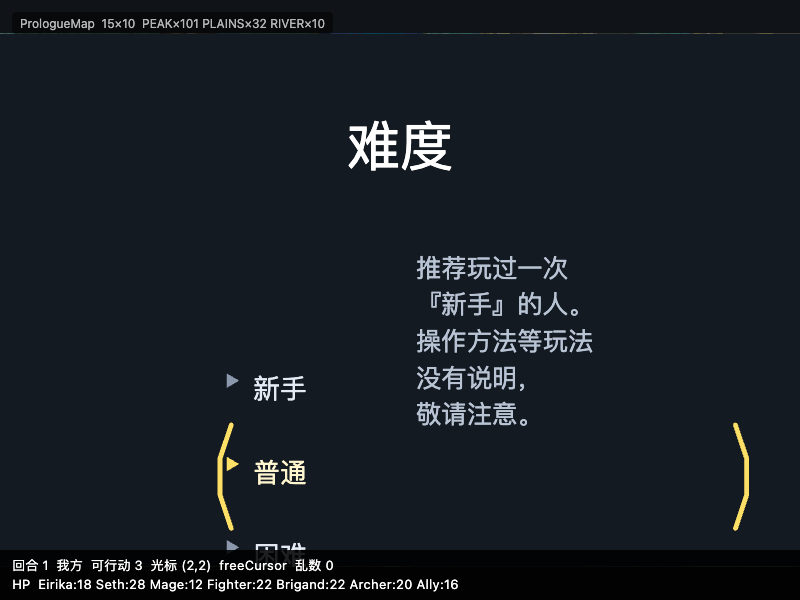
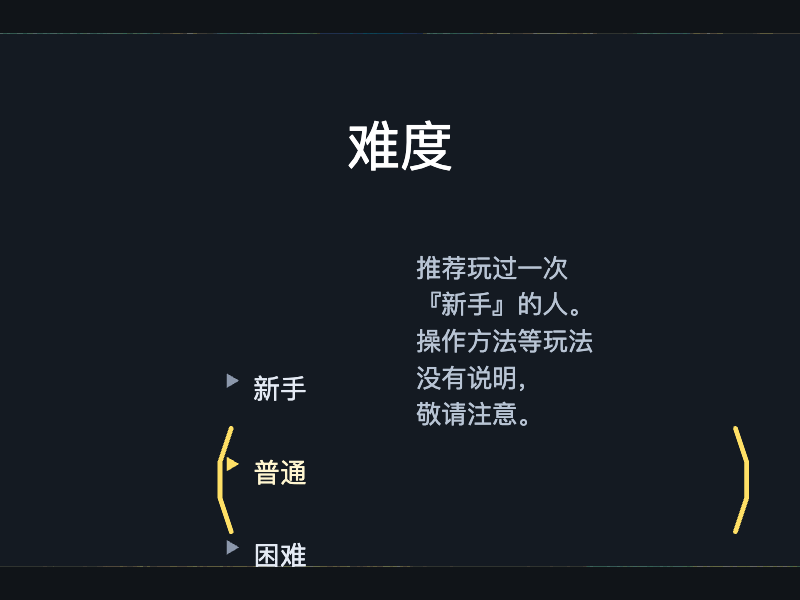
收掉调试 HUD：默认隐藏，FE8R_DEBUG=1 才显示
用户要求「把第一章和前面的都做好」。调试信息不该出现在玩家画面上。

## 之前的状态

画面上一直有两块**开发用的**覆盖层：

* 左上角：版本号 + 加载状态（`剧本加载失败: ...` 这类也在这里）
* 底部：`回合 1 我方 可行动 3 光标 (2,2) freeCursor 乱数 0` /
  `HP Eirika:18 Seth:28 ...` / `剧情 第1句 文本=0x8c3 未执行ENUN/MUSC...`

后者尤其刺眼：**玩家每时每刻都看到"未执行 ENUN""缺单位表"** ——
那是给我看的，不是给玩家看的。

## 改法：不是删掉，而是**默认隐藏**

删掉会失去开发价值（截图验证要靠 HUD 上的"缺表""未执行指令"）。
所以加一个开关：

```dart
/// 左上角状态条与底部 HUD 都是开发用的 —— 玩家不该看到。
/// `FE8R_DEBUG=1` 打开；不设就是干净画面。
final bool _debugOverlay = (Platform.environment['FE8R_DEBUG'] ?? '') == '1';
```

`main.dart` 里两块覆盖层包进 `if (_debugOverlay) ...[ ... ]`。
`tools/verify/shot.sh` 自动带上 `FE8R_DEBUG=1` —— 视觉验证照旧看得到那些信息。

## 效果

![干净画面](docs/images/zh-difficulty.png)

难度画面：标题「难度」、菜单「新手/普通/困难」、右侧中文说明，
**没有任何调试信息**。

ci.sh 31 项全绿；204 条测试全过。

diff --git a/lib/main.dart b/lib/main.dart
@@ -1,3 +1,4 @@
+import 'dart:io';
 // FE8 重制版 —— 程序入口
 //
 // 层次（技术方案 §4.2，由 tools/verify/check_architecture.dart 强制）：
@@ -12,6 +13,18 @@ import 'package:fe8r/game/fe8_game.dart';
 import 'package:fe8r/ui/debug_screenshot.dart';
 import 'package:flame/game.dart';
 import 'package:flutter/material.dart';
+
+/// ★ **调试覆盖层开关。**
+///
+/// 左上角状态条（版本 / 加载状态）与底部 HUD（回合 / 阵营 / 光标 / 缺表提示）
+/// 都是**开发用的** —— 玩家不该看到。
+///
+/// `FE8R_DEBUG=1` 打开；不设就是干净画面。
+///
+/// ⚠ 截图脚本（`tools/verify/shot.sh`）会带上它 —— 
+/// 视觉验证需要 HUD 上的"缺表""未执行指令"这类信息。
+final bool _debugOverlay =
+    (Platform.environment['FE8R_DEBUG'] ?? '') == '1';
 
 void main() {
   runApp(
@@ -76,11 +89,19 @@ class _GameShellState extends State<_GameShell> {
       // `FE8R_SCRIPT` 直接注入输入，从没经过真实键盘路径。
       //
       // 键盘现在由 `Fe8Game with KeyboardEvents` 处理（见 fe8_game.dart）。
+      // ★ **调试信息默认隐藏。**
+      //
+      // 左上角状态条与底部 HUD 都是**开发用的**（版本、加载状态、
+      // 回合/阵营/光标/缺表提示）。玩家不该看到它们。
+      //
+      // `FE8R_DEBUG=1` 打开 —— 开发时照旧，正常启动时画面是干净的。
+      // 环境变量在 `main()` 里读一次（见 `_debugOverlay`）。
       body: RepaintBoundary(
         key: _captureKey,
         child: Stack(
           children: [
             GameWidget(game: _game),
+            if (_debugOverlay) ...[
             // 左上角信息条：确认版本与加载状态
             Positioned(
               left: 12,
@@ -127,6 +148,7 @@ class _GameShellState extends State<_GameShell> {
                 ),
               ),
             ),
+            ],
           ],
         ),
       ),
